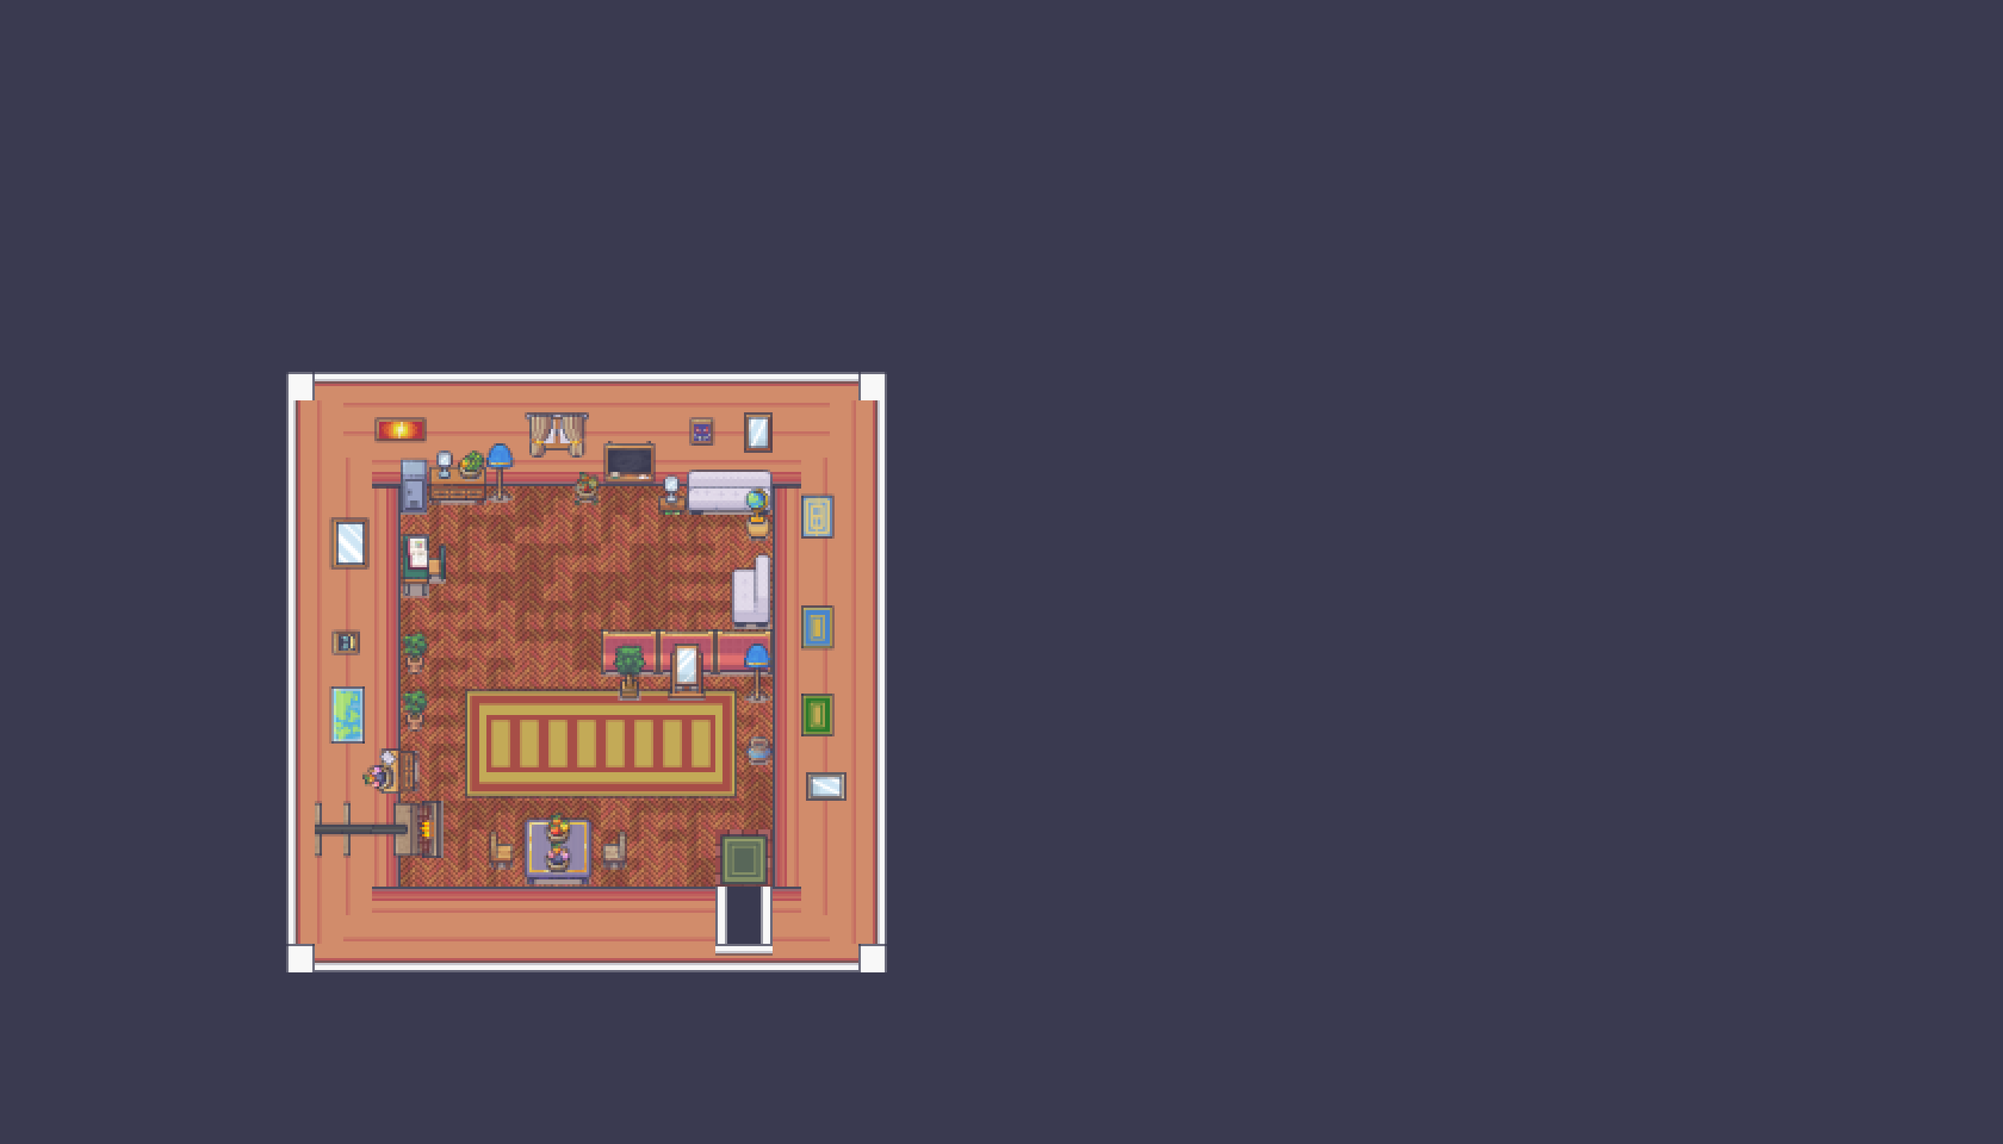
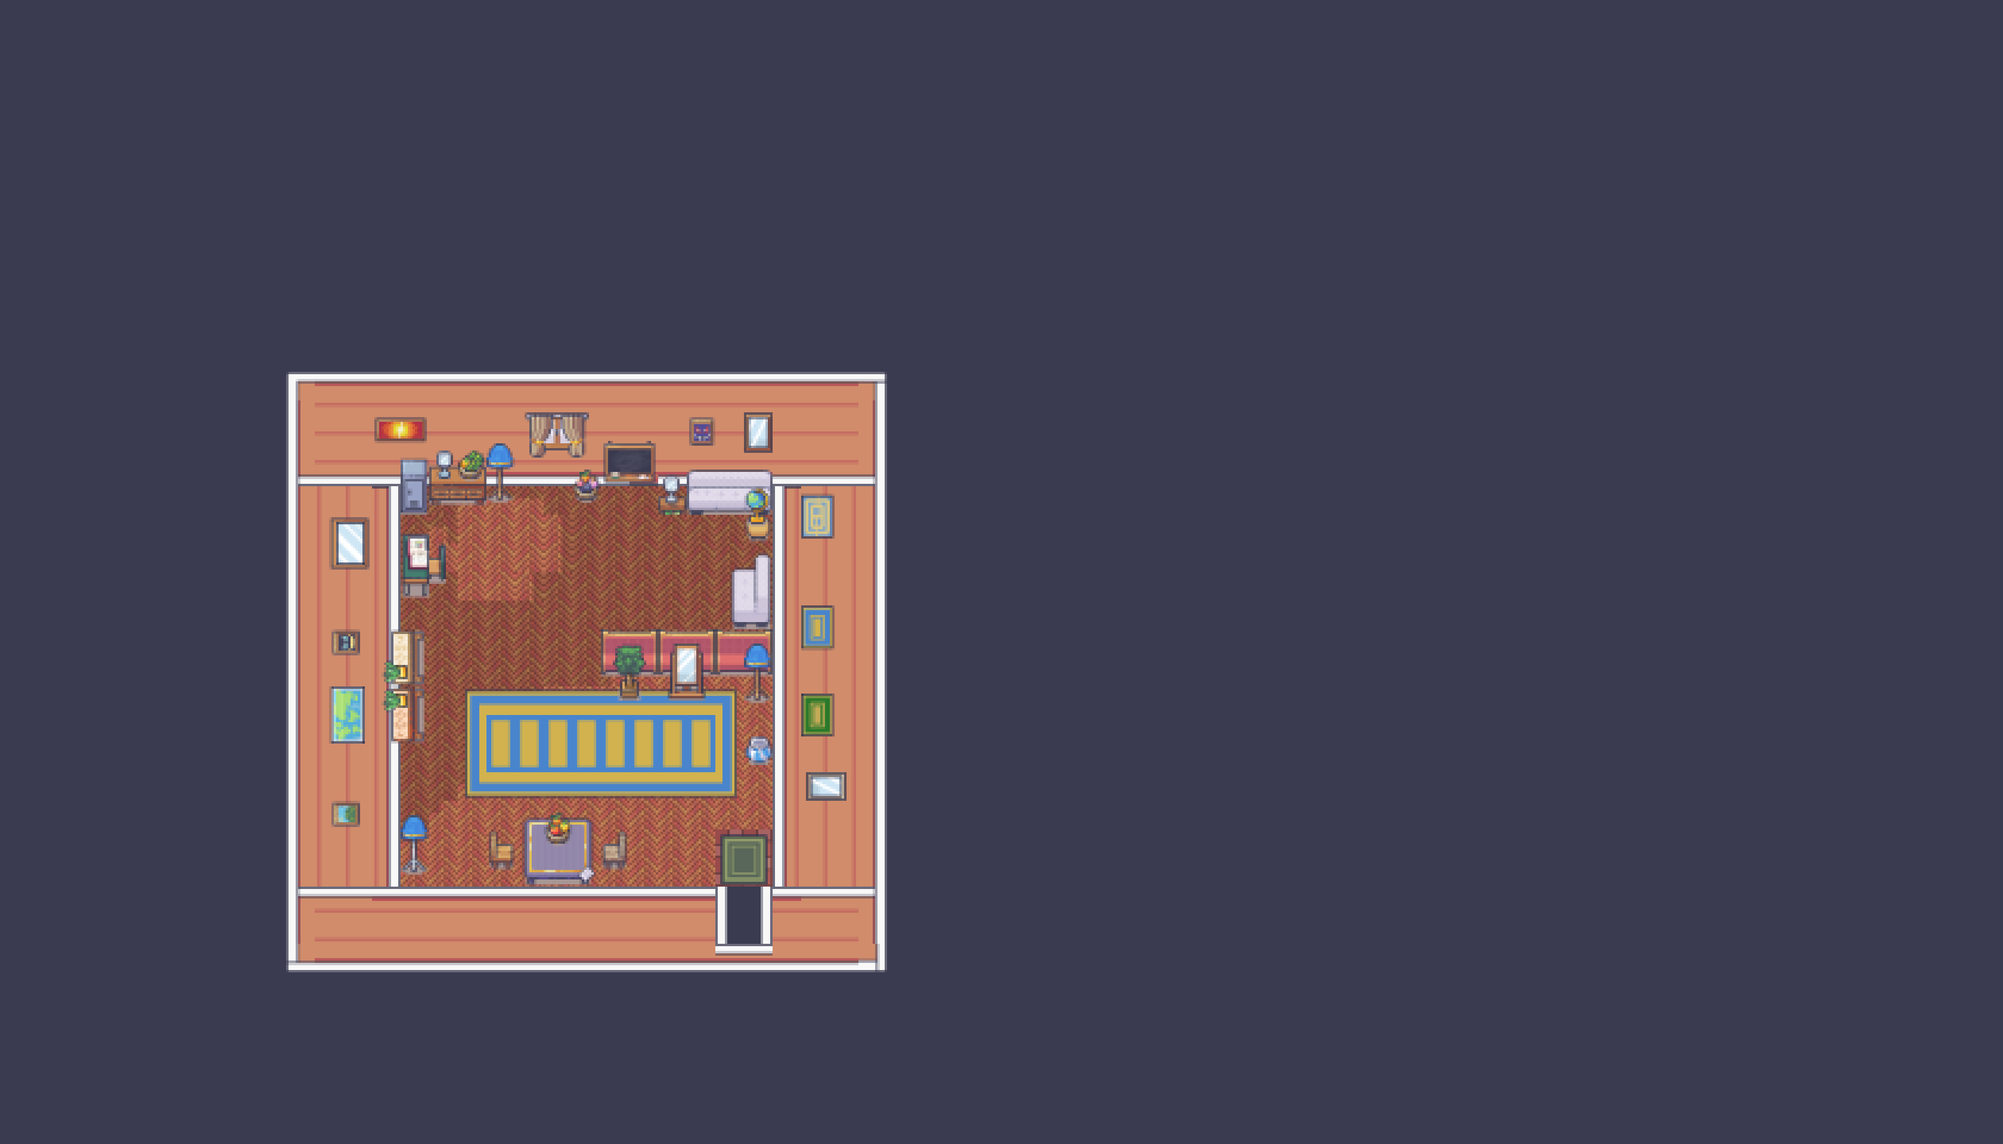
maps and collision

Changed region(s): [[0.125, 0.3125, 0.4375, 0.8438]]

diff --git a/js/data/portCollision.js b/js/data/portCollision.js
@@ -34,61 +34,68 @@ const portCollision = [
   0, 0, 0, 0, 392, 392, 392, 0, 0, 0, 0, 0, 0, 0, 0, 0, 0, 0, 0, 0, 0, 0, 0, 0,
   0, 0, 0, 0, 0, 0, 0, 0, 0, 0, 0, 0, 0, 0, 0, 0, 0, 0, 0, 0, 0, 0, 0, 0, 0, 0,
   0, 0, 0, 0, 0, 0, 0, 0, 0, 0, 0, 0, 0, 0, 0, 0, 0, 0, 0, 0, 0, 392, 392, 392,
-  0, 0, 0, 392, 392, 392, 392, 392, 392, 392, 392, 0, 0, 0, 0, 0, 0, 0, 0, 0, 0,
+  0, 0, 0, 392, 392, 392, 392, 0, 0, 0, 0, 392, 392, 392, 392, 0, 0, 0, 0, 0, 0,
   0, 0, 0, 0, 0, 0, 0, 0, 0, 0, 0, 0, 0, 0, 0, 0, 0, 0, 0, 0, 0, 0, 0, 0, 0, 0,
   0, 0, 0, 0, 0, 0, 0, 0, 0, 0, 0, 0, 0, 0, 0, 0, 0, 0, 0, 392, 0, 0, 0, 0, 0,
-  0, 0, 0, 0, 0, 0, 0, 0, 0, 392, 0, 0, 0, 0, 0, 0, 0, 0, 0, 0, 0, 0, 0, 0, 392,
-  392, 392, 392, 392, 392, 392, 392, 392, 392, 392, 392, 392, 392, 392, 392,
-  392, 392, 392, 392, 0, 0, 0, 0, 0, 0, 0, 0, 0, 0, 0, 0, 0, 0, 0, 0, 0, 0, 0,
-  0, 392, 0, 0, 0, 0, 0, 0, 0, 0, 0, 0, 0, 0, 0, 0, 392, 0, 0, 0, 0, 0, 0, 0, 0,
-  0, 0, 0, 0, 0, 392, 0, 0, 0, 0, 0, 0, 0, 0, 0, 0, 0, 0, 0, 0, 0, 0, 0, 0, 0,
-  0, 392, 0, 0, 0, 0, 0, 0, 0, 0, 0, 0, 0, 0, 0, 0, 0, 0, 0, 0, 0, 392, 0, 0, 0,
-  0, 0, 0, 0, 0, 0, 0, 0, 0, 0, 0, 392, 0, 0, 0, 0, 0, 0, 0, 0, 0, 0, 0, 0, 0,
-  392, 0, 0, 0, 0, 0, 0, 0, 0, 0, 0, 0, 0, 0, 0, 0, 0, 0, 0, 0, 0, 392, 0, 0, 0,
-  0, 0, 0, 0, 0, 0, 0, 0, 0, 0, 0, 0, 0, 0, 0, 0, 392, 0, 0, 0, 0, 0, 0, 0, 0,
-  0, 0, 0, 0, 0, 0, 392, 0, 0, 0, 0, 0, 0, 0, 0, 0, 0, 0, 0, 0, 392, 0, 0, 0, 0,
-  0, 0, 0, 0, 0, 0, 0, 0, 0, 0, 0, 0, 0, 0, 0, 0, 392, 0, 0, 0, 0, 0, 0, 0, 0,
-  0, 0, 0, 0, 0, 0, 0, 0, 0, 0, 0, 392, 0, 0, 0, 0, 0, 0, 0, 0, 0, 0, 0, 0, 0,
-  0, 392, 0, 0, 0, 0, 0, 0, 0, 0, 0, 0, 0, 0, 0, 392, 0, 0, 0, 0, 0, 0, 0, 0, 0,
-  0, 0, 0, 0, 0, 0, 0, 0, 0, 0, 0, 392, 0, 0, 0, 0, 0, 0, 0, 0, 0, 0, 0, 0, 0,
-  0, 0, 0, 0, 0, 0, 392, 0, 0, 0, 0, 0, 0, 0, 0, 0, 0, 0, 0, 0, 0, 392, 0, 0, 0,
-  0, 0, 0, 0, 0, 0, 0, 0, 0, 0, 392, 0, 0, 0, 0, 0, 0, 0, 0, 0, 0, 0, 0, 0, 0,
-  0, 0, 0, 0, 0, 0, 392, 0, 0, 0, 0, 0, 0, 0, 0, 0, 0, 0, 0, 0, 0, 0, 0, 0, 0,
-  0, 392, 0, 0, 0, 0, 0, 0, 0, 0, 0, 0, 0, 0, 0, 0, 392, 0, 0, 0, 0, 0, 0, 0, 0,
-  0, 0, 0, 0, 0, 392, 0, 0, 0, 0, 0, 0, 0, 0, 0, 0, 0, 0, 0, 0, 0, 0, 0, 0, 0,
-  0, 392, 0, 0, 0, 0, 0, 0, 0, 0, 0, 0, 0, 0, 0, 0, 0, 0, 0, 0, 0, 392, 0, 0, 0,
-  0, 0, 0, 0, 0, 0, 0, 0, 0, 0, 0, 392, 0, 0, 0, 0, 0, 0, 0, 0, 0, 0, 0, 0, 0,
-  392, 0, 0, 0, 0, 0, 0, 0, 0, 0, 0, 0, 0, 0, 0, 0, 0, 0, 0, 0, 0, 392, 0, 0, 0,
-  0, 0, 0, 0, 0, 0, 0, 0, 0, 0, 0, 0, 0, 0, 0, 0, 392, 0, 0, 0, 0, 0, 0, 0, 0,
-  0, 0, 0, 0, 0, 0, 392, 0, 0, 0, 0, 0, 0, 0, 0, 0, 0, 0, 0, 0, 392, 0, 0, 0, 0,
-  0, 0, 0, 0, 0, 0, 0, 0, 0, 0, 0, 0, 0, 0, 0, 0, 392, 0, 0, 0, 0, 0, 0, 0, 0,
-  0, 0, 0, 0, 0, 0, 0, 0, 0, 0, 0, 392, 0, 0, 0, 0, 0, 0, 0, 0, 0, 0, 0, 0, 0,
-  0, 392, 0, 0, 0, 0, 0, 0, 0, 0, 0, 0, 0, 0, 0, 392, 0, 0, 0, 0, 0, 0, 0, 0, 0,
-  0, 0, 0, 0, 0, 0, 0, 0, 0, 0, 0, 392, 0, 0, 0, 0, 0, 0, 0, 0, 0, 0, 0, 0, 0,
-  0, 0, 0, 0, 0, 0, 392, 0, 0, 0, 0, 0, 0, 0, 0, 0, 0, 0, 0, 0, 0, 392, 0, 0, 0,
-  0, 0, 0, 0, 0, 0, 0, 0, 0, 0, 392, 0, 0, 0, 0, 0, 0, 0, 0, 0, 0, 0, 0, 0, 0,
-  0, 0, 0, 0, 0, 0, 392, 0, 0, 0, 0, 0, 0, 0, 0, 0, 0, 0, 0, 0, 0, 0, 0, 0, 0,
-  0, 392, 0, 0, 0, 0, 0, 0, 0, 0, 0, 0, 0, 0, 0, 0, 392, 392, 392, 392, 392,
-  392, 392, 392, 392, 392, 392, 392, 392, 392, 392, 0, 0, 0, 0, 0, 0, 0, 0, 0,
-  0, 0, 0, 0, 0, 0, 0, 0, 0, 0, 0, 392, 0, 0, 0, 0, 0, 0, 0, 0, 0, 0, 0, 0, 0,
-  0, 0, 0, 0, 0, 0, 392, 0, 0, 0, 0, 0, 0, 0, 0, 0, 0, 0, 0, 0, 0, 0, 0, 0, 0,
-  0, 0, 0, 0, 0, 0, 0, 0, 0, 0, 0, 0, 0, 0, 0, 0, 0, 0, 0, 0, 0, 0, 0, 0, 0, 0,
-  0, 0, 0, 0, 0, 392, 0, 0, 0, 0, 0, 0, 0, 0, 0, 0, 0, 0, 0, 0, 0, 0, 0, 0, 0,
-  392, 0, 0, 0, 0, 0, 0, 0, 0, 0, 0, 0, 0, 0, 0, 0, 0, 0, 0, 0, 0, 0, 0, 0, 0,
-  0, 0, 0, 0, 0, 0, 0, 0, 0, 0, 0, 0, 0, 0, 0, 0, 0, 0, 0, 0, 0, 0, 0, 0, 0,
-  392, 0, 0, 0, 0, 0, 0, 0, 0, 0, 0, 0, 0, 0, 0, 0, 0, 0, 0, 0, 392, 0, 0, 0, 0,
-  0, 0, 0, 0, 0, 0, 0, 0, 0, 0, 0, 0, 0, 0, 0, 0, 0, 0, 0, 0, 0, 0, 0, 0, 0, 0,
-  0, 0, 0, 0, 0, 0, 0, 0, 0, 0, 0, 0, 0, 0, 0, 0, 0, 0, 0, 392, 0, 0, 0, 0, 0,
-  0, 0, 0, 0, 0, 0, 0, 0, 0, 0, 0, 0, 0, 0, 392, 0, 0, 0, 0, 0, 0, 0, 0, 0, 0,
-  0, 0, 0, 0, 0, 0, 0, 0, 0, 0, 0, 0, 0, 0, 0, 0, 0, 0, 0, 0, 0, 0, 0, 0, 0, 0,
-  0, 0, 0, 0, 0, 0, 0, 0, 0, 0, 0, 0, 0, 392, 0, 0, 0, 0, 0, 0, 0, 0, 0, 0, 0,
-  0, 0, 0, 0, 0, 0, 0, 0, 392, 0, 0, 0, 0, 0, 0, 0, 0, 0, 0, 0, 0, 0, 0, 0, 0,
-  0, 0, 0, 0, 0, 0, 0, 0, 0, 0, 0, 0, 0, 0, 0, 0, 0, 0, 0, 0, 0, 0, 0, 0, 0, 0,
-  0, 0, 0, 0, 0, 0, 0, 392, 0, 0, 0, 0, 0, 0, 0, 0, 0, 0, 0, 0, 0, 0, 0, 0, 0,
-  0, 0, 0, 392, 392, 392, 392, 392, 392, 392, 392, 392, 392, 392, 392, 392, 392,
-  392, 392, 392, 392, 392, 392, 392, 392, 392, 392, 392, 392, 392, 392, 392,
+  0, 0, 0, 0, 0, 392, 0, 0, 392, 0, 0, 0, 0, 392, 0, 0, 0, 0, 0, 0, 0, 0, 0, 0,
   392, 392, 392, 392, 392, 392, 392, 392, 392, 392, 392, 392, 392, 392, 392,
   392, 392, 392, 392, 392, 0, 0, 0, 0, 0, 0, 0, 0, 0, 0, 0, 0, 0, 0, 0, 0, 0, 0,
+  0, 0, 392, 0, 0, 0, 0, 0, 0, 0, 0, 0, 0, 392, 0, 0, 392, 0, 0, 0, 0, 392, 0,
+  0, 0, 0, 0, 0, 0, 0, 0, 392, 0, 0, 0, 0, 0, 0, 0, 0, 0, 0, 0, 0, 0, 0, 0, 0,
+  0, 0, 0, 0, 392, 0, 0, 0, 0, 0, 0, 0, 0, 0, 0, 0, 0, 0, 0, 0, 0, 392, 392,
+  392, 0, 0, 0, 0, 0, 0, 0, 0, 0, 0, 0, 392, 0, 0, 392, 0, 0, 0, 0, 392, 0, 0,
+  0, 0, 0, 0, 0, 0, 0, 392, 0, 0, 0, 0, 0, 0, 0, 0, 0, 0, 0, 0, 0, 0, 0, 0, 0,
+  0, 0, 0, 392, 0, 0, 0, 0, 0, 0, 0, 0, 0, 0, 0, 0, 0, 0, 0, 392, 0, 0, 0, 0, 0,
+  0, 0, 0, 0, 0, 0, 0, 0, 0, 392, 392, 392, 392, 0, 0, 0, 0, 392, 0, 0, 0, 0, 0,
+  0, 0, 0, 0, 392, 0, 0, 0, 0, 0, 0, 0, 0, 0, 0, 0, 0, 0, 0, 0, 0, 0, 0, 0, 0,
+  392, 0, 0, 0, 0, 0, 0, 0, 0, 0, 0, 0, 0, 0, 0, 0, 392, 0, 0, 0, 0, 0, 0, 0, 0,
+  0, 0, 0, 0, 0, 0, 0, 0, 0, 0, 0, 0, 0, 0, 392, 0, 0, 0, 0, 0, 0, 0, 0, 0, 392,
+  0, 0, 0, 0, 0, 0, 0, 0, 0, 0, 0, 0, 0, 0, 0, 0, 0, 0, 0, 0, 392, 0, 0, 0, 0,
+  0, 0, 0, 0, 0, 0, 0, 0, 0, 0, 0, 392, 0, 0, 0, 0, 0, 0, 0, 0, 0, 0, 0, 0, 0,
+  0, 0, 0, 0, 0, 0, 0, 0, 0, 392, 0, 0, 0, 0, 0, 0, 0, 0, 0, 392, 0, 0, 0, 0, 0,
+  0, 0, 0, 0, 0, 0, 0, 0, 0, 0, 0, 0, 0, 0, 0, 392, 0, 0, 0, 0, 0, 0, 0, 0, 0,
+  0, 0, 0, 0, 0, 0, 392, 0, 0, 0, 0, 0, 0, 0, 0, 0, 0, 0, 0, 0, 0, 0, 0, 0, 0,
+  0, 0, 0, 0, 392, 0, 0, 0, 0, 0, 0, 0, 0, 0, 392, 0, 0, 0, 0, 0, 0, 0, 0, 0, 0,
+  392, 392, 392, 392, 392, 392, 392, 392, 392, 392, 392, 0, 0, 0, 0, 0, 0, 0, 0,
+  0, 0, 0, 0, 0, 0, 0, 392, 0, 0, 0, 0, 0, 0, 0, 0, 0, 0, 0, 0, 0, 0, 0, 0, 0,
+  0, 0, 0, 0, 0, 392, 0, 0, 0, 0, 0, 0, 0, 0, 0, 392, 0, 0, 0, 0, 0, 0, 0, 0, 0,
+  0, 0, 0, 0, 0, 0, 0, 0, 0, 0, 0, 392, 0, 0, 0, 0, 0, 0, 0, 0, 0, 0, 0, 0, 0,
+  0, 0, 392, 0, 0, 0, 0, 0, 0, 0, 0, 0, 0, 0, 0, 0, 0, 0, 0, 0, 0, 0, 0, 0, 0,
+  392, 0, 0, 0, 0, 0, 0, 0, 0, 0, 392, 0, 0, 0, 0, 0, 0, 0, 0, 0, 0, 0, 0, 0, 0,
+  0, 0, 0, 0, 0, 0, 392, 0, 0, 0, 0, 0, 0, 0, 0, 0, 0, 0, 0, 0, 0, 0, 392, 392,
+  392, 392, 392, 392, 392, 392, 392, 392, 0, 0, 0, 0, 0, 0, 0, 0, 0, 0, 0, 0, 0,
+  392, 0, 0, 0, 0, 0, 0, 0, 0, 0, 392, 0, 0, 0, 0, 0, 0, 0, 0, 0, 0, 0, 0, 0, 0,
+  0, 0, 0, 0, 0, 0, 392, 0, 0, 0, 0, 0, 0, 0, 0, 0, 0, 0, 0, 0, 0, 0, 0, 0, 0,
+  0, 0, 392, 0, 0, 0, 0, 0, 0, 0, 0, 0, 0, 0, 0, 0, 0, 0, 0, 0, 392, 392, 392,
+  392, 392, 392, 392, 392, 392, 392, 392, 0, 0, 0, 0, 0, 0, 0, 0, 0, 0, 0, 0, 0,
+  0, 0, 0, 0, 0, 0, 0, 392, 0, 0, 0, 0, 0, 0, 0, 0, 0, 0, 0, 0, 0, 0, 0, 0, 0,
+  0, 0, 0, 392, 0, 0, 0, 0, 0, 0, 0, 0, 0, 0, 0, 0, 0, 0, 0, 0, 392, 0, 0, 0, 0,
+  0, 0, 0, 0, 0, 0, 0, 0, 0, 0, 0, 0, 0, 0, 0, 0, 0, 0, 392, 392, 392, 392, 392,
+  392, 392, 0, 0, 392, 0, 0, 0, 0, 0, 0, 0, 0, 0, 0, 0, 0, 0, 0, 0, 0, 392, 392,
+  392, 392, 392, 0, 0, 0, 0, 0, 0, 0, 0, 0, 0, 0, 0, 392, 0, 0, 392, 0, 0, 0, 0,
+  0, 0, 0, 0, 0, 0, 0, 0, 0, 0, 0, 0, 0, 0, 0, 0, 0, 0, 0, 392, 392, 392, 392,
+  392, 392, 392, 0, 0, 392, 0, 0, 0, 0, 0, 0, 0, 0, 0, 0, 0, 0, 0, 0, 0, 392, 0,
+  0, 0, 0, 0, 0, 0, 0, 0, 0, 0, 0, 0, 0, 0, 0, 0, 392, 0, 0, 392, 0, 0, 0, 0, 0,
+  0, 0, 0, 0, 0, 0, 0, 0, 0, 0, 0, 0, 0, 0, 0, 0, 0, 0, 0, 0, 0, 0, 0, 0, 0, 0,
+  0, 392, 0, 0, 0, 0, 0, 0, 0, 0, 0, 0, 0, 0, 0, 0, 0, 392, 0, 0, 0, 0, 0, 0, 0,
+  0, 0, 0, 0, 0, 0, 0, 0, 0, 0, 392, 0, 0, 0, 0, 0, 0, 0, 0, 0, 0, 0, 0, 0, 0,
+  0, 0, 0, 0, 0, 0, 0, 0, 0, 0, 0, 0, 0, 0, 0, 0, 0, 0, 0, 0, 0, 392, 0, 0, 0,
+  0, 0, 0, 0, 0, 0, 0, 0, 0, 0, 0, 0, 392, 0, 0, 0, 0, 0, 0, 0, 0, 0, 0, 0, 0,
+  0, 0, 0, 0, 0, 392, 0, 0, 0, 0, 0, 0, 0, 0, 0, 0, 0, 0, 0, 0, 0, 0, 0, 0, 0,
+  0, 0, 0, 0, 0, 0, 0, 0, 0, 0, 0, 0, 0, 0, 0, 0, 392, 0, 0, 0, 0, 0, 0, 0, 0,
+  0, 0, 0, 0, 0, 0, 0, 392, 0, 0, 0, 0, 0, 0, 0, 0, 0, 0, 0, 0, 0, 0, 0, 0, 0,
+  392, 0, 0, 0, 0, 0, 0, 0, 0, 0, 0, 0, 0, 0, 0, 0, 0, 0, 0, 0, 0, 0, 0, 0, 0,
+  0, 0, 0, 0, 0, 0, 0, 0, 0, 0, 0, 392, 0, 0, 0, 0, 0, 0, 0, 0, 0, 0, 0, 0, 0,
+  0, 0, 392, 0, 0, 0, 0, 0, 0, 0, 0, 0, 0, 0, 0, 0, 0, 0, 0, 0, 392, 0, 0, 0, 0,
+  0, 0, 0, 0, 0, 0, 0, 0, 0, 0, 0, 0, 0, 0, 0, 0, 0, 0, 0, 0, 0, 0, 0, 0, 0, 0,
+  0, 0, 0, 0, 0, 392, 0, 0, 0, 0, 0, 0, 0, 0, 0, 0, 0, 0, 0, 0, 0, 392, 0, 0, 0,
+  0, 0, 0, 0, 0, 0, 0, 0, 0, 0, 0, 0, 0, 0, 392, 0, 0, 0, 0, 0, 0, 0, 0, 0, 0,
+  0, 0, 0, 0, 0, 0, 0, 0, 0, 0, 0, 0, 0, 0, 0, 0, 0, 0, 0, 0, 0, 0, 0, 0, 0,
+  392, 0, 0, 0, 0, 0, 0, 0, 0, 0, 0, 0, 0, 0, 0, 0, 0, 392, 392, 392, 392, 392,
+  392, 392, 392, 392, 392, 392, 392, 392, 392, 392, 392, 392, 392, 392, 392,
+  392, 392, 392, 392, 392, 392, 392, 392, 392, 392, 392, 392, 392, 392, 392,
+  392, 392, 392, 392, 392, 392, 392, 392, 392, 392, 392, 392, 392, 392, 392,
+  392, 392, 392, 0, 0, 0, 0, 0, 0, 0, 0, 0, 0, 0, 0, 0, 0, 0, 0, 0, 0, 0, 0, 0,
   0, 0, 0, 0, 0, 0, 0, 0, 0, 0, 0, 0, 0, 0, 0, 0, 0, 0, 0, 0, 0, 0, 0, 0, 0, 0,
   0, 0, 0, 0, 0, 0, 0, 0, 0, 0, 0, 0, 0, 0, 0, 0, 0, 0, 0, 0, 0, 0, 0, 0, 0, 0,
   0, 0, 0, 0, 0, 0, 0, 0, 0, 0, 0, 0, 0, 0, 0, 0, 0, 0, 0, 0, 0, 0, 0, 0, 0, 0,
@@ -107,10 +114,5 @@ const portCollision = [
   0, 0, 0, 0, 0, 0, 0, 0, 0, 0, 0, 0, 0, 0, 0, 0, 0, 0, 0, 0, 0, 0, 0, 0, 0, 0,
   0, 0, 0, 0, 0, 0, 0, 0, 0, 0, 0, 0, 0, 0, 0, 0, 0, 0, 0, 0, 0, 0, 0, 0, 0, 0,
   0, 0, 0, 0, 0, 0, 0, 0, 0, 0, 0, 0, 0, 0, 0, 0, 0, 0, 0, 0, 0, 0, 0, 0, 0, 0,
-  0, 0, 0, 0, 0, 0, 0, 0, 0, 0, 0, 0, 0, 0, 0, 0, 0, 0, 0, 0, 0, 0, 0, 0, 0, 0,
-  0, 0, 0, 0, 0, 0, 0, 0, 0, 0, 0, 0, 0, 0, 0, 0, 0, 0, 0, 0, 0, 0, 0, 0, 0, 0,
-  0, 0, 0, 0, 0, 0, 0, 0, 0, 0, 0, 0, 0, 0, 0, 0, 0, 0, 0, 0, 0, 0, 0, 0, 0, 0,
-  0, 0, 0, 0, 0, 0, 0, 0, 0, 0, 0, 0, 0, 0, 0, 0, 0, 0, 0, 0, 0, 0, 0, 0, 0, 0,
-  0, 0, 0, 0, 0, 0, 0, 0, 0, 0, 0, 0, 0, 0, 0, 0, 0, 0, 0, 0, 0, 0, 0, 0, 0, 0,
-  0, 0, 0, 0, 0, 0, 0, 0, 0, 0, 0, 0, 0, 0, 0, 0, 0, 0, 0, 0, 0, 0, 0, 0,
+  0, 0, 0, 0, 0, 0, 0, 0, 0, 0, 0,
 ];

diff --git a/js/data/houseCollision.js b/js/data/houseCollision.js
@@ -40,10 +40,10 @@ const houseCollision = [
   0, 0, 0, 0, 0, 0, 0, 0, 0, 0, 0, 0, 0, 0, 0, 0, 0, 0, 0, 0, 0, 0, 0, 0, 0, 0,
   0, 0, 0, 0, 0, 0, 0, 0, 0, 0, 0, 0, 0, 0, 0, 0, 0, 0, 0, 0, 0, 0, 0, 0, 0, 0,
   0, 0, 0, 0, 0, 0, 0, 0, 0, 0, 0, 0, 0, 0, 0, 0, 0, 0, 0, 0, 0, 0, 0, 0, 0, 0,
+  0, 0, 403, 403, 403, 403, 403, 0, 0, 0, 0, 0, 0, 0, 0, 0, 0, 0, 0, 0, 0, 0, 0,
   0, 0, 0, 0, 0, 0, 0, 0, 0, 0, 0, 0, 0, 0, 0, 0, 0, 0, 0, 0, 0, 0, 0, 0, 0, 0,
-  0, 0, 0, 0, 0, 0, 0, 0, 0, 0, 0, 0, 0, 0, 0, 0, 0, 0, 0, 0, 0, 0, 0, 0, 0, 0,
-  0, 0, 0, 0, 0, 0, 0, 0, 0, 0, 0, 0, 0, 0, 0, 0, 0, 403, 403, 403, 403, 403,
-  403, 403, 403, 0, 403, 403, 403, 0, 0, 0, 0, 0, 0, 0, 0, 0, 0, 0, 0, 0, 0, 0,
+  0, 0, 0, 0, 0, 0, 0, 0, 0, 0, 0, 0, 0, 0, 0, 0, 0, 0, 0, 0, 403, 403, 403, 0,
+  0, 0, 0, 0, 403, 403, 403, 403, 0, 0, 0, 0, 0, 0, 0, 0, 0, 0, 0, 0, 0, 0, 0,
   0, 0, 0, 0, 0, 0, 0, 0, 0, 0, 0, 0, 0, 0, 0, 0, 0, 0, 0, 0, 0, 0, 0, 0, 0, 0,
   0, 0, 0, 0, 0, 0, 0, 0, 0, 0, 0, 0, 0, 0, 0, 0, 403, 0, 0, 0, 0, 0, 0, 0, 0,
   403, 0, 0, 0, 403, 0, 0, 0, 0, 0, 0, 0, 0, 0, 0, 0, 0, 0, 0, 0, 0, 0, 0, 0, 0,
@@ -56,41 +56,41 @@ const houseCollision = [
   0, 0, 0, 0, 0, 0, 0, 0, 0, 0, 0, 0, 0, 0, 0, 0, 0, 0, 0, 0, 0, 403, 0, 0, 0,
   0, 0, 0, 0, 0, 0, 0, 0, 0, 0, 403, 0, 0, 0, 0, 0, 0, 0, 0, 0, 0, 0, 0, 0, 0,
   0, 0, 0, 0, 0, 0, 0, 0, 0, 0, 0, 0, 0, 0, 0, 0, 0, 0, 0, 0, 0, 0, 0, 0, 0, 0,
-  0, 0, 0, 0, 0, 0, 0, 0, 0, 0, 0, 0, 0, 0, 0, 403, 403, 0, 0, 0, 0, 0, 0, 0, 0,
+  0, 0, 0, 0, 0, 0, 0, 0, 0, 0, 0, 0, 0, 0, 0, 403, 0, 0, 0, 0, 0, 0, 0, 0, 0,
   0, 0, 0, 0, 403, 0, 0, 0, 0, 0, 0, 0, 0, 0, 0, 0, 0, 0, 0, 0, 0, 0, 0, 0, 0,
   0, 0, 0, 0, 0, 0, 0, 0, 0, 0, 0, 0, 0, 0, 0, 0, 0, 0, 0, 0, 0, 0, 0, 0, 0, 0,
-  0, 0, 0, 0, 0, 0, 0, 0, 0, 403, 0, 0, 0, 0, 0, 0, 0, 403, 403, 403, 403, 403,
-  403, 0, 0, 0, 0, 0, 0, 0, 0, 0, 0, 0, 0, 0, 0, 0, 0, 0, 0, 0, 0, 0, 0, 0, 0,
+  0, 0, 0, 0, 0, 0, 0, 0, 0, 403, 403, 0, 0, 0, 0, 0, 0, 403, 403, 403, 403,
+  403, 403, 0, 0, 0, 0, 0, 0, 0, 0, 0, 0, 0, 0, 0, 0, 0, 0, 0, 0, 0, 0, 0, 0, 0,
   0, 0, 0, 0, 0, 0, 0, 0, 0, 0, 0, 0, 0, 0, 0, 0, 0, 0, 0, 0, 0, 0, 0, 0, 0, 0,
-  0, 0, 0, 0, 0, 0, 403, 0, 0, 0, 0, 0, 0, 0, 403, 403, 403, 403, 403, 403, 0,
-  0, 0, 0, 0, 0, 0, 0, 0, 0, 0, 0, 0, 0, 0, 0, 0, 0, 0, 0, 0, 0, 0, 0, 0, 0, 0,
-  0, 0, 0, 0, 0, 0, 0, 0, 0, 0, 0, 0, 0, 0, 0, 0, 0, 0, 0, 0, 0, 0, 0, 0, 0, 0,
-  0, 0, 0, 403, 0, 0, 0, 0, 0, 0, 0, 0, 0, 0, 0, 0, 0, 403, 0, 0, 0, 0, 0, 0, 0,
-  0, 0, 0, 0, 0, 0, 0, 0, 0, 0, 0, 0, 0, 0, 0, 0, 0, 0, 0, 0, 0, 0, 0, 0, 0, 0,
-  0, 0, 0, 0, 0, 0, 0, 0, 0, 0, 0, 0, 0, 0, 0, 0, 0, 0, 0, 0, 0, 0, 403, 0, 0,
-  0, 0, 0, 0, 0, 0, 0, 0, 0, 0, 0, 403, 0, 0, 0, 0, 0, 0, 0, 0, 0, 0, 0, 0, 0,
-  0, 0, 0, 0, 0, 0, 0, 0, 0, 0, 0, 0, 0, 0, 0, 0, 0, 0, 0, 0, 0, 0, 0, 0, 0, 0,
-  0, 0, 0, 0, 0, 0, 0, 0, 0, 0, 0, 0, 0, 0, 0, 0, 403, 0, 0, 0, 0, 0, 0, 0, 0,
-  0, 0, 0, 0, 0, 403, 0, 0, 0, 0, 0, 0, 0, 0, 0, 0, 0, 0, 0, 0, 0, 0, 0, 0, 0,
-  0, 0, 0, 0, 0, 0, 0, 0, 0, 0, 0, 0, 0, 0, 0, 0, 0, 0, 0, 0, 0, 0, 0, 0, 0, 0,
-  0, 0, 0, 0, 0, 0, 0, 0, 0, 0, 403, 0, 0, 0, 0, 0, 0, 0, 0, 0, 0, 0, 0, 0, 403,
+  0, 0, 0, 0, 0, 0, 0, 403, 403, 0, 0, 0, 0, 0, 0, 403, 403, 403, 403, 403, 403,
   0, 0, 0, 0, 0, 0, 0, 0, 0, 0, 0, 0, 0, 0, 0, 0, 0, 0, 0, 0, 0, 0, 0, 0, 0, 0,
   0, 0, 0, 0, 0, 0, 0, 0, 0, 0, 0, 0, 0, 0, 0, 0, 0, 0, 0, 0, 0, 0, 0, 0, 0, 0,
-  0, 0, 0, 0, 403, 0, 0, 0, 0, 0, 0, 0, 0, 0, 0, 0, 0, 403, 0, 0, 0, 0, 0, 0, 0,
+  0, 0, 0, 0, 403, 403, 0, 0, 0, 0, 0, 0, 0, 0, 0, 0, 0, 0, 403, 0, 0, 0, 0, 0,
   0, 0, 0, 0, 0, 0, 0, 0, 0, 0, 0, 0, 0, 0, 0, 0, 0, 0, 0, 0, 0, 0, 0, 0, 0, 0,
-  0, 0, 0, 0, 0, 0, 0, 0, 0, 0, 0, 0, 0, 0, 0, 0, 0, 0, 0, 0, 0, 0, 0, 403, 0,
-  0, 0, 403, 403, 403, 0, 0, 0, 0, 0, 0, 403, 0, 0, 0, 0, 0, 0, 0, 0, 0, 0, 0,
+  0, 0, 0, 0, 0, 0, 0, 0, 0, 0, 0, 0, 0, 0, 0, 0, 0, 0, 0, 0, 0, 0, 0, 0, 403,
+  403, 0, 0, 0, 0, 0, 0, 0, 0, 0, 0, 0, 0, 403, 0, 0, 0, 0, 0, 0, 0, 0, 0, 0, 0,
   0, 0, 0, 0, 0, 0, 0, 0, 0, 0, 0, 0, 0, 0, 0, 0, 0, 0, 0, 0, 0, 0, 0, 0, 0, 0,
-  0, 0, 0, 0, 0, 0, 0, 0, 0, 0, 0, 0, 0, 0, 0, 0, 0, 0, 403, 0, 0, 0, 0, 403, 0,
-  403, 0, 0, 0, 0, 0, 0, 403, 0, 0, 0, 0, 0, 0, 0, 0, 0, 0, 0, 0, 0, 0, 0, 0, 0,
+  0, 0, 0, 0, 0, 0, 0, 0, 0, 0, 0, 0, 0, 0, 0, 0, 0, 0, 403, 0, 0, 0, 0, 0, 0,
+  0, 0, 0, 0, 0, 0, 0, 403, 0, 0, 0, 0, 0, 0, 0, 0, 0, 0, 0, 0, 0, 0, 0, 0, 0,
   0, 0, 0, 0, 0, 0, 0, 0, 0, 0, 0, 0, 0, 0, 0, 0, 0, 0, 0, 0, 0, 0, 0, 0, 0, 0,
-  0, 0, 0, 0, 0, 0, 0, 0, 0, 0, 0, 0, 0, 403, 403, 403, 403, 403, 403, 403, 403,
-  403, 403, 403, 0, 0, 403, 0, 0, 0, 0, 0, 0, 0, 0, 0, 0, 0, 0, 0, 0, 0, 0, 0,
-  0, 0, 0, 0, 0, 0, 0, 0, 0, 0, 0, 0, 0, 0, 0, 0, 0, 0, 0, 0, 0, 0, 0, 0, 0, 0,
-  0, 0, 0, 0, 0, 0, 0, 0, 0, 0, 0, 0, 0, 0, 0, 0, 0, 0, 0, 0, 0, 0, 0, 403, 0,
+  0, 0, 0, 0, 0, 0, 0, 0, 0, 0, 0, 0, 403, 0, 0, 0, 0, 0, 0, 0, 0, 0, 0, 0, 0,
   0, 403, 0, 0, 0, 0, 0, 0, 0, 0, 0, 0, 0, 0, 0, 0, 0, 0, 0, 0, 0, 0, 0, 0, 0,
   0, 0, 0, 0, 0, 0, 0, 0, 0, 0, 0, 0, 0, 0, 0, 0, 0, 0, 0, 0, 0, 0, 0, 0, 0, 0,
-  0, 0, 0, 0, 0, 0, 0, 0, 0, 0, 0, 0, 0, 0, 0, 0, 0, 0, 403, 403, 0, 0, 0, 0, 0,
+  0, 0, 0, 0, 0, 0, 403, 0, 0, 0, 0, 0, 0, 0, 0, 0, 0, 0, 0, 0, 403, 0, 0, 0, 0,
+  0, 0, 0, 0, 0, 0, 0, 0, 0, 0, 0, 0, 0, 0, 0, 0, 0, 0, 0, 0, 0, 0, 0, 0, 0, 0,
+  0, 0, 0, 0, 0, 0, 0, 0, 0, 0, 0, 0, 0, 0, 0, 0, 0, 0, 0, 0, 0, 0, 0, 0, 0, 0,
+  403, 0, 0, 0, 0, 403, 0, 0, 0, 0, 0, 0, 0, 403, 0, 0, 0, 0, 0, 0, 0, 0, 0, 0,
+  0, 0, 0, 0, 0, 0, 0, 0, 0, 0, 0, 0, 0, 0, 0, 0, 0, 0, 0, 0, 0, 0, 0, 0, 0, 0,
+  0, 0, 0, 0, 0, 0, 0, 0, 0, 0, 0, 0, 0, 0, 0, 0, 0, 0, 0, 403, 0, 0, 0, 0, 403,
+  0, 403, 0, 0, 0, 0, 0, 0, 403, 0, 0, 0, 0, 0, 0, 0, 0, 0, 0, 0, 0, 0, 0, 0, 0,
+  0, 0, 0, 0, 0, 0, 0, 0, 0, 0, 0, 0, 0, 0, 0, 0, 0, 0, 0, 0, 0, 0, 0, 0, 0, 0,
+  0, 0, 0, 0, 0, 0, 0, 0, 0, 0, 0, 0, 0, 0, 403, 403, 403, 403, 403, 403, 403,
+  403, 403, 403, 403, 0, 0, 403, 0, 0, 0, 0, 0, 0, 0, 0, 0, 0, 0, 0, 0, 0, 0, 0,
+  0, 0, 0, 0, 0, 0, 0, 0, 0, 0, 0, 0, 0, 0, 0, 0, 0, 0, 0, 0, 0, 0, 0, 0, 0, 0,
+  0, 0, 0, 0, 0, 0, 0, 0, 0, 0, 0, 0, 0, 0, 0, 0, 0, 0, 0, 0, 0, 0, 0, 0, 403,
+  0, 0, 403, 0, 0, 0, 0, 0, 0, 0, 0, 0, 0, 0, 0, 0, 0, 0, 0, 0, 0, 0, 0, 0, 0,
+  0, 0, 0, 0, 0, 0, 0, 0, 0, 0, 0, 0, 0, 0, 0, 0, 0, 0, 0, 0, 0, 0, 0, 0, 0, 0,
+  0, 0, 0, 0, 0, 0, 0, 0, 0, 0, 0, 0, 0, 0, 0, 0, 0, 0, 0, 403, 403, 0, 0, 0, 0,
   0, 0, 0, 0, 0, 0, 0, 0, 0, 0, 0, 0, 0, 0, 0, 0, 0, 0, 0, 0, 0, 0, 0, 0, 0, 0,
   0, 0, 0, 0, 0, 0, 0, 0, 0, 0, 0, 0, 0, 0, 0, 0, 0, 0, 0, 0, 0, 0, 0, 0, 0, 0,
   0, 0, 0, 0, 0, 0, 0, 0, 0, 0, 0, 0, 0, 0, 0, 0, 0, 0, 0, 0, 0, 0, 0, 0, 0, 0,
@@ -108,5 +108,5 @@ const houseCollision = [
   0, 0, 0, 0, 0, 0, 0, 0, 0, 0, 0, 0, 0, 0, 0, 0, 0, 0, 0, 0, 0, 0, 0, 0, 0, 0,
   0, 0, 0, 0, 0, 0, 0, 0, 0, 0, 0, 0, 0, 0, 0, 0, 0, 0, 0, 0, 0, 0, 0, 0, 0, 0,
   0, 0, 0, 0, 0, 0, 0, 0, 0, 0, 0, 0, 0, 0, 0, 0, 0, 0, 0, 0, 0, 0, 0, 0, 0, 0,
-  0, 0, 0, 0, 0, 0, 0, 0, 0, 0, 0, 0, 0, 0, 0, 0,
+  0, 0, 0, 0, 0, 0, 0, 0, 0, 0, 0, 0, 0, 0, 0, 0, 0,
 ];

diff --git a/index.html b/index.html
@@ -44,8 +44,8 @@
           >
             <svg
               xmlns="http://www.w3.org/2000/svg"
-              width="56"
-              height="56"
+              width="46"
+              height="46"
               fill="currentColor"
               class="bi bi-arrow-left-circle"
               viewBox="0 0 16 16"
@@ -65,8 +65,8 @@
           >
             <svg
               xmlns="http://www.w3.org/2000/svg"
-              width="56"
-              height="56"
+              width="46"
+              height="46"
               fill="currentColor"
               class="bi bi-arrow-down-circle"
               viewBox="0 0 16 16"
@@ -84,8 +84,8 @@
           >
             <svg
               xmlns="http://www.w3.org/2000/svg"
-              width="56"
-              height="56"
+              width="46"
+              height="46"
               fill="currentColor"
               class="bi bi-arrow-right-circle"
               viewBox="0 0 16 16"
@@ -101,8 +101,8 @@
           id="game-btn-x"
           style="
             position: fixed;
-            bottom: 5.2rem;
-            left: 5.05rem;
+            bottom: 4.5rem;
+            left: 4.4rem;
             width: fit-content;
             height: fit-content;
             display: flex;
@@ -121,8 +121,8 @@
           >
             <svg
               xmlns="http://www.w3.org/2000/svg"
-              width="56"
-              height="56"
+              width="46"
+              height="46"
               fill="currentColor"
               class="bi bi-arrow-up-circle"
               viewBox="0 0 16 16"

diff --git a/index.js b/index.js
@@ -11,19 +11,22 @@ const mobile = window.innerWidth < 600;
 // canvas.width = 1024;
 // canvas.height = 576;
 let offset;
+let canvasScale = 1;
 
 if (mobile) {
   canvas.height = window.innerHeight;
   canvas.width = window.innerWidth / 0.9;
   offset = {
     x: -700,
-    y: -720,
+    y: -800,
   };
 } else {
-  canvas.width = 1024;
-  canvas.height = 576;
+  canvasScale = 1.1;
+  canvas.width = 1024 * canvasScale;
+  canvas.height = 576 * canvasScale;
+
   offset = {
-    x: -650,
+    x: -450,
     y: -900,
   };
 }
@@ -128,7 +131,7 @@ overworld.src = './img/overworld.png';
 
 const overWorld = new Sprite({
   position: { x: offset.x, y: offset.y },
-  velocity: { x: 0, y: 0 },
+
   image: overworld,
 });
 
@@ -137,7 +140,7 @@ foreground.src = './img/overworld-fg.png';
 
 const overWorldFG = new Sprite({
   position: { x: offset.x, y: offset.y },
-  velocity: { x: 0, y: 0 },
+
   image: foreground,
 });
 

diff --git a/js/houseScene.js b/js/houseScene.js
@@ -58,6 +58,10 @@ houseCollisionMap.forEach((row, i) => {
 });
 
 const move = [houseWorldBg, ...boundarie, ...exitHouseZones];
+player.position = {
+  x: player.position.x,
+  y: player.position.y,
+};
 
 function animateHouse() {
   const houseAniID = window.requestAnimationFrame(animateHouse);

diff --git a/index.css b/index.css
@@ -169,10 +169,11 @@ body {
 /* set canvas for mobile viewing */
 @media screen and (max-width: 768px) {
   body {
-    height: 90vh;
+    height: 95vh;
   }
   #overworld {
     width: 100%;
     height: 100%;
+    margin: auto 0;
   }
 }
